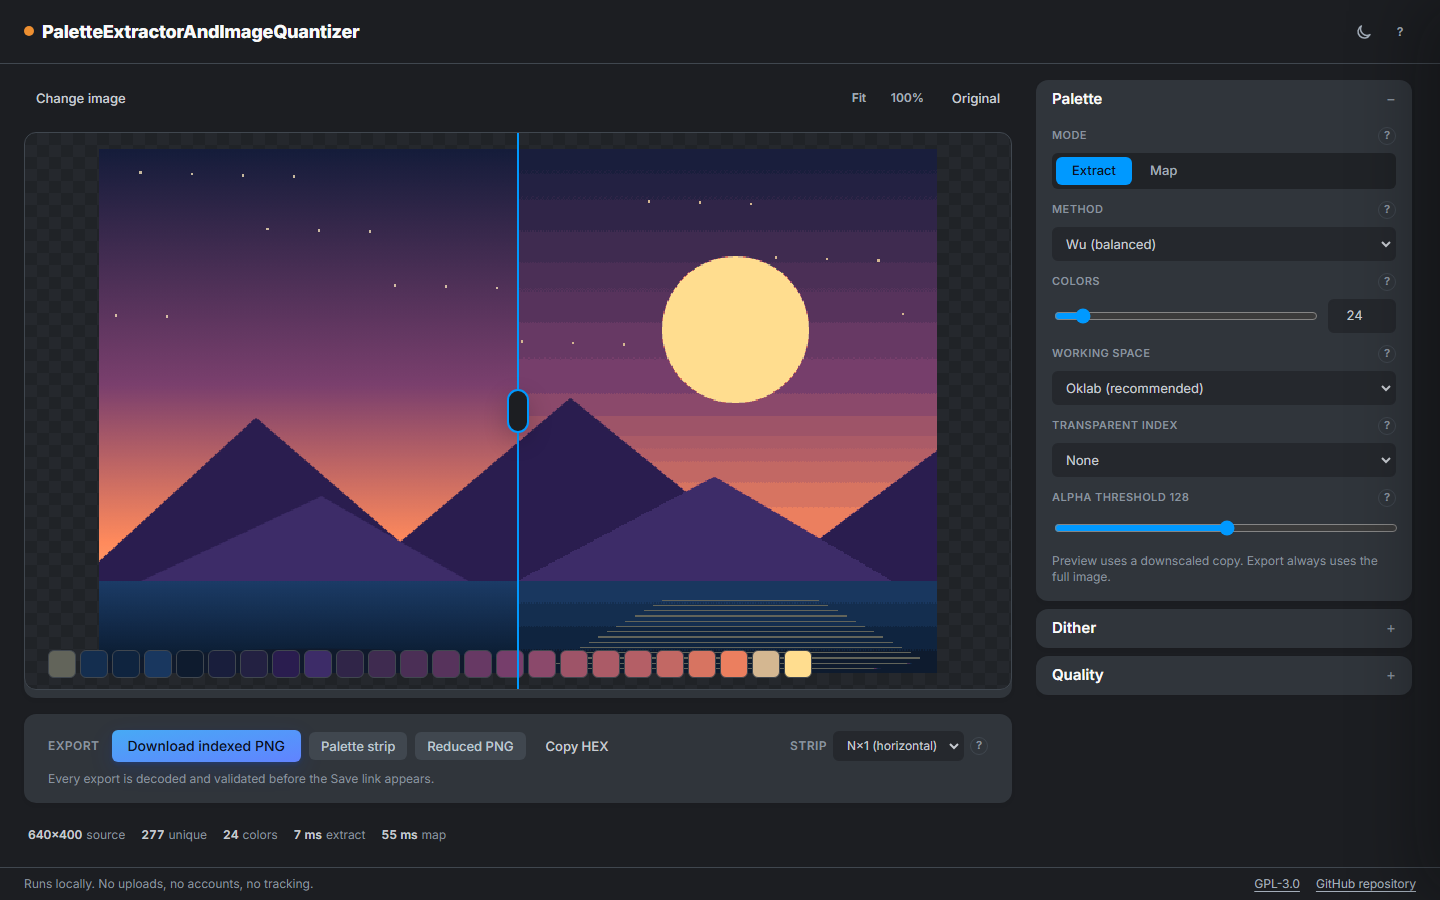
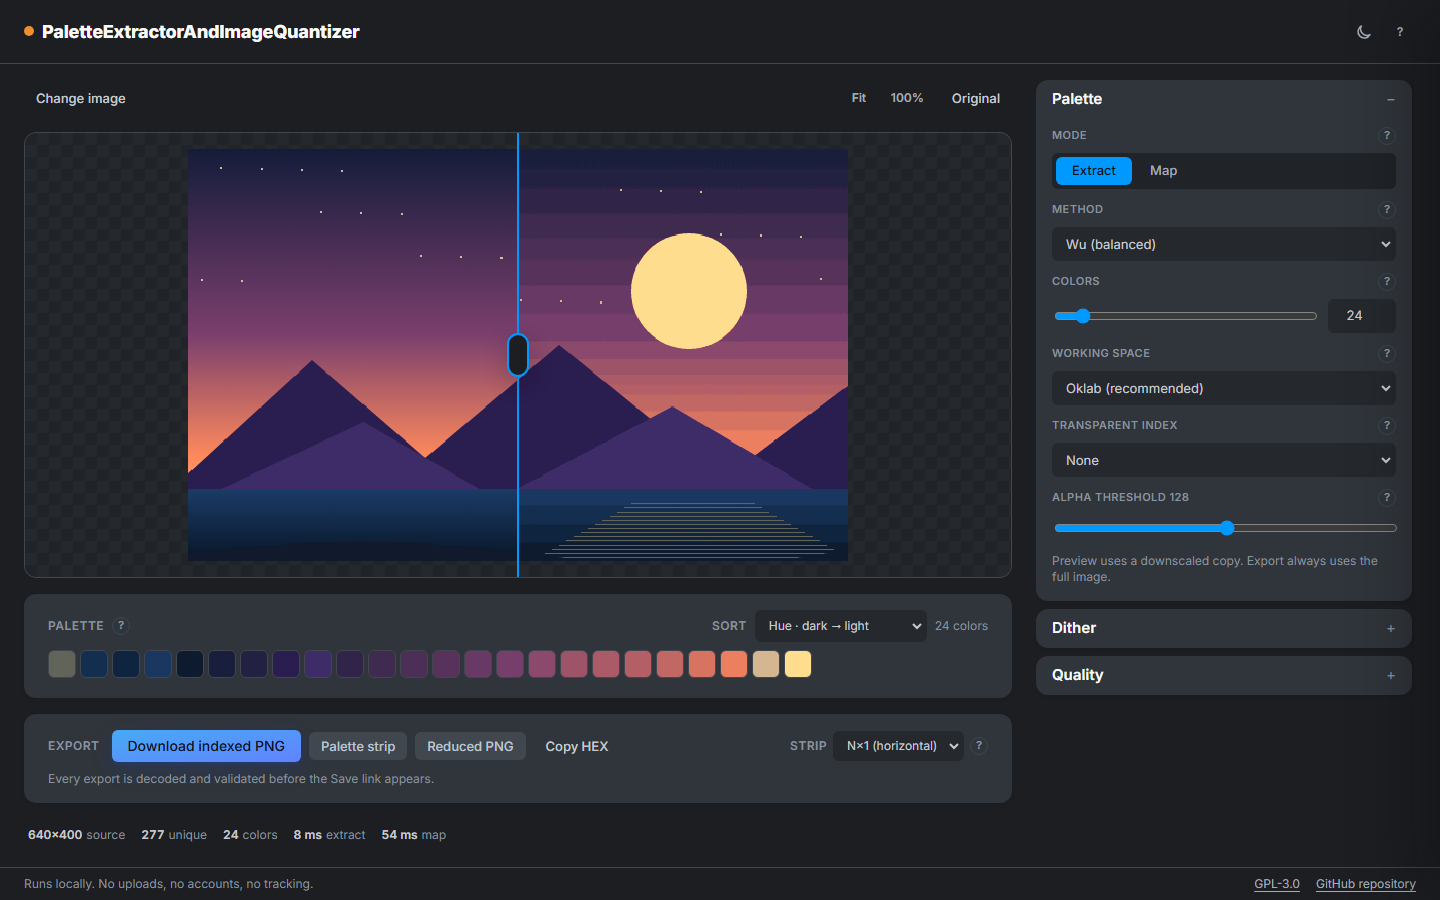
Fix the palette panel overlapping the canvas
The desktop canvas override lived in layout.css, but canvas.css loads later and kept height: clamp(320px, 62dvh, 760px). The canvas therefore overflowed the five-row stage and the palette panel painted over it. Move the desktop height/min-height override into canvas.css so the canvas takes the remaining grid row.

Updated both README screenshots to the corrected layout. Browser checks at 1280x900, 1280x768, 1024x768, and 980x700: 16 px gaps between canvas, palette, export, and status; no overlap; page still does not scroll. Tests: 85 passing.

Changed region(s): [[0.0312, 0.1867, 0.6875, 0.7467]]

diff --git a/css/canvas.css b/css/canvas.css
@@ -83,3 +83,12 @@
   min-width: 32px;
   padding: 0 8px;
 }
+
+/* The desktop stage grid gives the canvas the space left by the palette, export,
+   and status rows. This rule must live after the base clamp() above. */
+@media (min-width: 980px) {
+  .peiq-canvas-frame {
+    height: auto;
+    min-height: 0;
+  }
+}

diff --git a/css/layout.css b/css/layout.css
@@ -214,11 +214,6 @@
     align-content: stretch;
   }
 
-  .peiq-canvas-frame {
-    height: auto;
-    min-height: 0;
-  }
-
   .peiq-rail {
     position: static;
     height: 100%;
